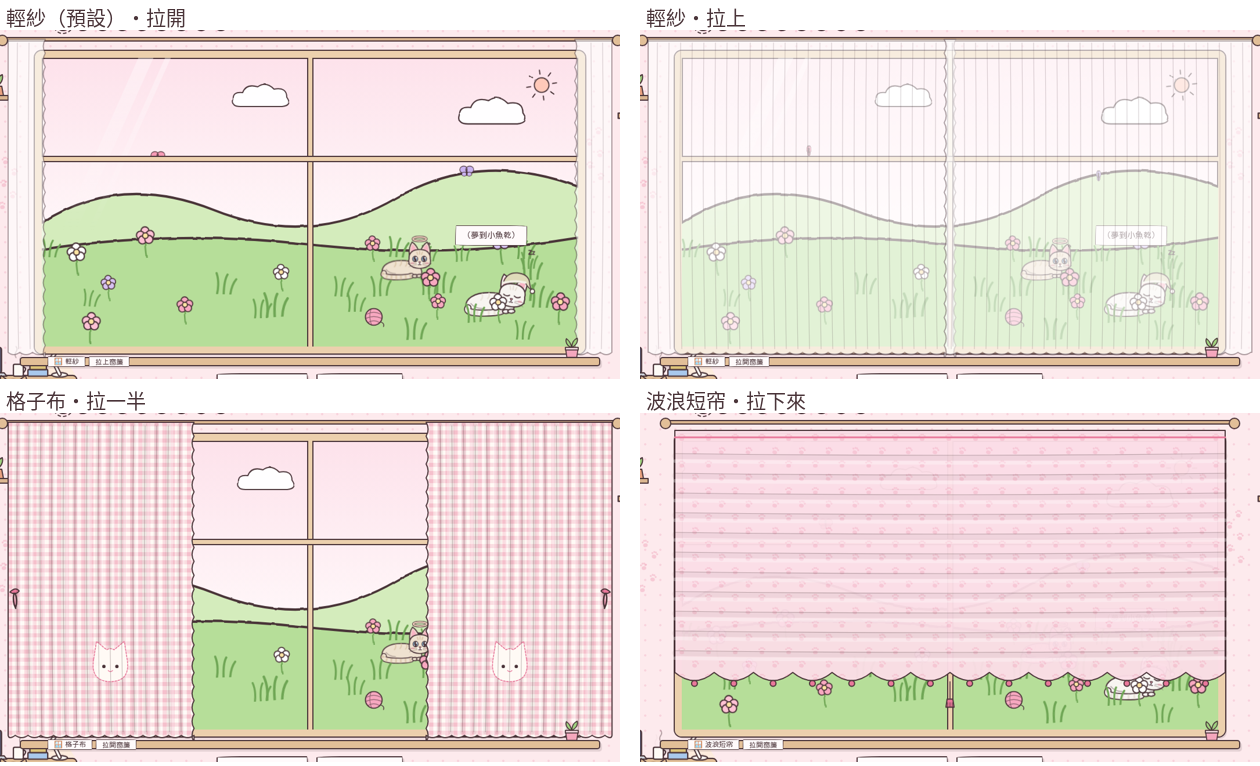
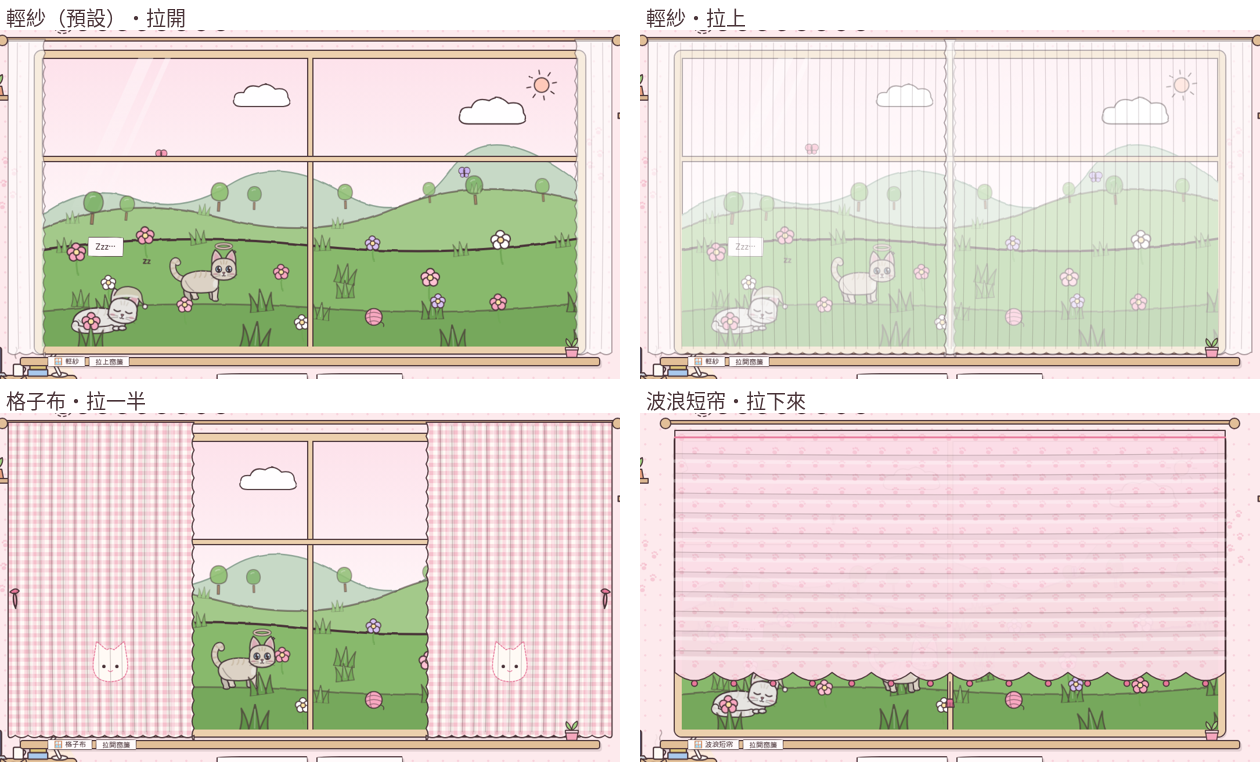
redraw the grass

diff --git a/index.html b/index.html
@@ -164,8 +164,8 @@
   }
   @keyframes gust { 0% { left: -20%; opacity: 0; } 20% { opacity: 1; } 100% { left: 110%; opacity: 0; } }
   .meadow.windy .deco { animation-duration: .8s; }
-  .meadow .scene, .meadow .deco { transition: filter 2s; }
-  .meadow.gloomy .scene, .meadow.gloomy .deco { filter: saturate(.65) brightness(.93); }
+  .meadow .scene, .meadow .deco, .meadow .trees { transition: filter 2s; }
+  .meadow.gloomy .scene, .meadow.gloomy .deco, .meadow.gloomy .trees { filter: saturate(.65) brightness(.93); }
   .meadow .fly { transition: opacity 1.5s; }
   .meadow.gloomy .fly { opacity: 0; }   /* 下雨天蝴蝶躲起來 */
   .rainbow { position: absolute; left: 22%; top: 18%; width: 46%; z-index: 1; pointer-events: none; opacity: 0; transition: opacity 2s; }
@@ -213,6 +213,8 @@
   [data-theme="night"] .mullion { background: #b39a7e; }
   @media (max-width: 1099px) { .rod { display: none; } .big-window { margin-top: 10px; } }
   .meadow .scene { position: absolute; inset: 0; width: 100%; height: 100%; }
+  .meadow .scene.far { z-index: 0; } .meadow .trees { position: absolute; inset: 0; z-index: 1; pointer-events: none; } .meadow .scene.near { z-index: 2; }
+  .meadow .tree { position: absolute; transform: translateX(-50%); transform-origin: bottom center; animation: sway 4s ease-in-out infinite alternate; }
   .meadow .label {
     position: absolute; top: 8px; left: 10px; z-index: 300; font-size: 14px;
     background: var(--card); border: 1.5px solid var(--line); padding: 2px 10px; border-radius: var(--wobble2);
@@ -238,6 +240,9 @@
   /* 貓咪 */
   .cat { position: absolute; width: 100px; transform-origin: bottom center; cursor: pointer; }
   .meadow .cat { width: calc(100px * var(--ms, 1)); }
+  /* 窗外的貓顏色柔和一點，像在遠處；下雨天再暗一點（屋內的寵物不受影響） */
+  .meadow .cat .hopper > svg { filter: saturate(.78) brightness(.93); transition: filter 2s; }
+  .meadow.gloomy .cat .hopper > svg { filter: saturate(.6) brightness(.86); }
   .cat svg { display: block; width: 100%; overflow: visible; }
   .cat .flip { transition: transform .25s; }
   .cat .tail { animation: wag 1.8s ease-in-out infinite alternate; }
@@ -592,8 +597,13 @@
     <g fill="#fff" stroke="none"><circle cx="26" cy="28" r="1.2"/><circle cx="44" cy="22" r="1"/><circle cx="78" cy="30" r="1.3"/><circle cx="22" cy="52" r="1"/><circle cx="80" cy="56" r="1"/></g>
     <circle cx="66" cy="38" r="12" fill="#fff3c4" stroke="none"/>
     <path d="M14 96 V84 Q52 76 90 84 V96Z" fill="#6f8f6a" stroke="none"/>
-    <path d="M36 88 C34 76 36 66 42 62 L41 54 L46 59 Q50 58 54 59 L59 54 L58 62 C64 66 66 76 64 88 C60 90 40 90 36 88Z" fill="#2b2839" stroke="none"/>
-    <path d="M62 86 C72 86 74 78 70 74" fill="none" stroke="#2b2839" stroke-width="3.4"/>
+    <g fill="#1d1a26" stroke="#1d1a26" stroke-linecap="round" stroke-linejoin="round">
+      <path d="M38 77 C31 71 29 60 32 51 C34 46 39 47 38.5 51.5" fill="none" stroke-width="3.6"/>
+      <path d="M40 78 L36.5 90 M44 79 L46 90 M58 79 L55.5 90 M62 78 L65 90" fill="none" stroke-width="3.6"/>
+      <ellipse cx="50" cy="76" rx="15" ry="7" stroke="none"/>
+      <circle cx="67.5" cy="69.5" r="6.6" stroke="none"/>
+      <path d="M62.6 65.6 L63.2 58.4 L67.8 63.4Z M68 63.2 L72.6 58.6 L73.6 66Z" stroke-width="1"/></g>
+    
     <text x="52" y="114" text-anchor="middle" font-size="11" fill="#4a3439" stroke="none" font-family="Huninn, sans-serif">晚安，喵</text>
     <rect class="tape" x="-2" y="2" width="26" height="10" rx="1" transform="rotate(-24 11 7)" stroke="none"/>
     <rect class="tape" x="80" y="2" width="26" height="10" rx="1" transform="rotate(24 93 7)" stroke="none"/></g></svg></div>
@@ -730,10 +740,18 @@
   </defs></svg>
   <div class="curtains" id="curtains"></div>
   <div class="meadow" id="meadow">
-    <svg class="scene" viewBox="0 0 1000 300" preserveAspectRatio="none" aria-hidden="true">
+    <!-- 草地分成好幾層：越遠越淡（帶一點藍灰），越近越深，看起來比較有距離感 -->
+    <svg class="scene far" viewBox="0 0 1000 300" preserveAspectRatio="none" aria-hidden="true">
+      <g filter="url(#w)" stroke-linejoin="round">
+        <path d="M-10 168 Q80 128 170 146 T350 132 T560 140 T760 118 T1010 134 L1010 310 L-10 310Z" fill="#c7d9c6" stroke="#8fa596" stroke-width="1.6"/>
+        <path d="M-10 180 Q150 140 330 166 T660 156 T1010 150 L1010 310 L-10 310Z" fill="#a3c98a" stroke="#4a3439" stroke-width="2" stroke-opacity=".55"/>
+      </g>
+    </svg>
+    <div class="trees" aria-hidden="true"></div>
+    <svg class="scene near" viewBox="0 0 1000 300" preserveAspectRatio="none" aria-hidden="true">
       <g filter="url(#w)" stroke="#4a3439" stroke-width="2.5" stroke-linejoin="round">
-        <path d="M-10 175 Q140 118 320 158 T660 146 T1010 136 L1010 310 L-10 310Z" fill="#d4ecbc"/>
-        <path d="M-10 200 Q240 178 500 194 T1010 186 L1010 310 L-10 310Z" fill="#b6de99"/>
+        <path d="M-10 200 Q240 180 500 195 T1010 187 L1010 310 L-10 310Z" fill="#88b96c"/>
+        <path d="M-10 264 Q260 250 520 260 T1010 254 L1010 310 L-10 310Z" fill="#76a85c" stroke-opacity=".5" stroke-width="1.8"/>
       </g>
     </svg>
     <svg class="sun" viewBox="0 0 60 60" aria-hidden="true"><g filter="url(#w)" stroke="#4a3439" stroke-width="2" stroke-linecap="round">
@@ -1532,12 +1550,57 @@ function addDeco(html, left, bottom, w) {
   d.innerHTML = html;
   meadow.appendChild(d);
 }
-const grass = `<svg viewBox="0 0 20 20"><path d="M2 20 Q4 9 1 1 M8 20 Q8 7 11 2 M14 20 Q15 11 19 6" fill="none" stroke="#6fa655" stroke-width="2" stroke-linecap="round"/></svg>`;
+// 中間山丘上的小樹：位置是 [左邊 %, 離底部 %, 大小]，越遠（越高）的越小越淡
+[[7, 41.5, .8], [14, 43, .6], [31, 46, .7], [38, 46.6, .55], [55, 47, .6], [71, 49, .5], [79, 48.4, .7], [92, 49.5, .55]].forEach(([x, y, k], i) => {
+  const t = document.createElement("div");
+  t.className = "tree";
+  t.style.cssText = `left:${x}%;bottom:${y}%;width:calc(${Math.round(30 * k)}px * var(--ms, 1));opacity:${(.55 + k * .5).toFixed(2)};animation-delay:${-i * .7}s`;
+  t.innerHTML = `<svg viewBox="0 0 30 44"><g stroke="#4a3439" stroke-width="1.6" stroke-linejoin="round" stroke-opacity=".6">
+    <path d="M13.5 30 H16.5 V43 H13.5Z" fill="#b28a68"/><path d="M15 2 C26 2 29 14 26 22 C24 30 6 30 4 22 C1 14 4 2 15 2Z" fill="${i % 3 ? "#8fbf72" : "#7fb36a"}"/>
+    <path d="M10 10 Q13 7 17 8" fill="none" stroke="#fff" stroke-opacity=".4"/></g></svg>`;
+  meadow.querySelector(".trees").appendChild(t);
+});
+// 三片尖尖葉子的草叢（實心），fill 是顏色、tilt 讓每叢草歪的方向不太一樣
+const grass = (fill, tilt = 0, line = .7) => `<svg viewBox="0 0 30 24" style="transform:rotate(${tilt}deg)"><path d="M3 24 Q6 13 4 4 Q10 13 11.5 24Z M10 24 Q13.5 9 15 0 Q18 10 20 24Z M18.5 24 Q22 13 26.5 5 Q25 15 27 24Z"
+  fill="${fill}" stroke="#4a3439" stroke-width="1.3" stroke-linejoin="round" stroke-opacity="${line}"/>
+  <path d="M15 4 Q15.5 12 15.5 20" fill="none" stroke="#fff" stroke-opacity=".25" stroke-width="1.2"/></svg>`;
+// 算出草地分界線在某個水平位置的高度（照背景 SVG 裡的曲線，M → Q → T… 的寫法）
+function curveAt(d) {
+  const nums = d.match(/-?[\d.]+/g).map(Number), pts = [];
+  let p0 = [nums[0], nums[1]], c = [nums[2], nums[3]], p1 = [nums[4], nums[5]];
+  const seg = (a, k, b) => { for (let t = 0; t <= 1; t += .02) pts.push([(1 - t) ** 2 * a[0] + 2 * (1 - t) * t * k[0] + t * t * b[0], (1 - t) ** 2 * a[1] + 2 * (1 - t) * t * k[1] + t * t * b[1]]); };
+  seg(p0, c, p1);
+  for (let i = 6; i + 1 < nums.length; i += 2) {
+    const next = [nums[i], nums[i + 1]], k = [2 * p1[0] - c[0], 2 * p1[1] - c[1]];
+    seg(p1, k, next); c = k; p1 = next;
+  }
+  // 回傳：給 0~100 的水平位置，得到離底部的百分比
+  return xPct => {
+    const x = xPct * 10, i = pts.findIndex(q => q[0] >= x), a = pts[Math.max(0, i - 1)], b = pts[Math.max(0, i)];
+    const y = a[1] + (b[1] - a[1]) * ((x - a[0]) / ((b[0] - a[0]) || 1));
+    return (300 - y) / 3;
+  };
+}
 const flower = c => `<svg viewBox="0 0 24 40"><g filter="url(#w)" stroke="${INK}" stroke-width="1.5">
   <path d="M12 40 Q11 26 12 16" stroke="#6fa655" stroke-width="2" fill="none"/>
   <circle cx="12" cy="6" r="5" fill="${c}"/><circle cx="6" cy="11" r="5" fill="${c}"/><circle cx="18" cy="11" r="5" fill="${c}"/>
   <circle cx="8" cy="17" r="5" fill="${c}"/><circle cx="16" cy="17" r="5" fill="${c}"/><circle cx="12" cy="12" r="3.5" fill="#ffe3a3"/></g></svg>`;
-for (let i = 0; i < 22; i++) addDeco(grass, rand() * 97, rand() * 95, 16 + rand() * 10);
+// 一排一排的草叢：越遠越小、越淡，越近越大、越深
+const midEdge = curveAt("M-10 180 Q150 140 330 166 T660 156 T1010 150");
+const nearEdge = curveAt("M-10 200 Q240 180 500 195 T1010 187");
+const frontEdge = curveAt("M-10 264 Q260 250 520 260 T1010 254");
+const farTufts = meadow.querySelector(".trees");
+for (let x = 4 + rand() * 8; x < 100; x += 16 + rand() * 12) {   // 中間山丘的邊緣：小小的、淡淡的（在近處草地的後面）
+  const t = document.createElement("div");
+  t.className = "tree";
+  t.style.cssText = `left:${x}%;bottom:${midEdge(x) - 1.6}%;width:calc(${Math.round(12 + rand() * 5)}px * var(--ms, 1));animation-delay:${-rand() * 4}s`;
+  t.innerHTML = grass("#9cc684", rand() * 16 - 8, .3);
+  farTufts.appendChild(t);
+}
+for (let x = 2 + rand() * 10; x < 100; x += 15 + rand() * 12) addDeco(grass("#80b465", rand() * 16 - 8, .5), x, (nearEdge(x) - 2.4) * 2.9, 17 + rand() * 6);    // 近處草地的邊緣
+for (let i = 0; i < 4; i++) addDeco(grass("#76ab5b", rand() * 16 - 8, .6), rand() * 97, (5 + rand() * 22) * 2.9, 20 + rand() * 7);   // 散在草地上
+for (let x = 6 + rand() * 10; x < 100; x += 20 + rand() * 14) addDeco(grass("#6a9f51", rand() * 14 - 7), x, (frontEdge(x) - 3.2) * 2.9, 24 + rand() * 6);   // 最前面那條草地的邊緣
+for (let x = 3 + rand() * 12; x < 100; x += 24 + rand() * 16) addDeco(grass("#5f9448", rand() * 12 - 6), x, -6, 30 + rand() * 8);   // 最底下、最靠近你的一排
 const flowerColors = ["#f7a8c0", "#ffffff", "#d7c2f2", "#f7a8c0", "#ffc2d4"];
 for (let i = 0; i < 12; i++) addDeco(flower(flowerColors[i % 5]), rand() * 95, rand() * 90, 16 + rand() * 6);
 [0, -30, -58].forEach((delay, i) => {
@@ -2230,6 +2293,8 @@ function sidePanel(side, pw, ph, style) {
     ${extra}<path d="${folds}" fill="none" stroke-width="1.2" opacity="${style === "sheer" ? .22 : .3}"/>${bow}</g></svg>`;
 }
 
+// 窗簾拉開時剩下的寬度：大螢幕 64px，窄螢幕收得窄一點，才不會擋住太多窗戶
+const openPanelW = W => innerWidth >= 1100 ? 64 : Math.max(18, Math.round(W * .06));
 function curtainHTML() {
   const win = document.querySelector(".big-window"), W = win.offsetWidth, H = win.offsetHeight;
   const out = innerWidth >= 1100 ? 46 : 0;   // 寬螢幕時簾子掛在窗框外面一點
@@ -2253,7 +2318,7 @@ function curtainHTML() {
       <path d="M0 12 H${W}" fill="none" class="trim-line" stroke-width="3"/>
       <path d="${folds}" fill="none" stroke-width="1.2" opacity=".3"/>${poms}${cord}</g></svg>`;
   }
-  const pw = lerp(64, W / 2 + out + 10, curtainShut), ph = H + 18;
+  const pw = lerp(openPanelW(W), W / 2 + out + 10, curtainShut), ph = H + 18;
   return sidePanel("l", pw, ph, curtainStyle) + sidePanel("r", pw, ph, curtainStyle);
 }
 function renderCurtains() {
@@ -2292,7 +2357,7 @@ function bindCurtainDrag(svg) {
     const win = document.querySelector(".big-window"), W = win.offsetWidth, H = win.offsetHeight;
     const out = innerWidth >= 1100 ? 46 : 0, x0 = e.clientX, y0 = e.clientY, s0 = curtainShut;
     const side = svg.classList.contains("r") ? -1 : 1, isVal = svg.classList.contains("valance");
-    const range = isVal ? H - 66 : W / 2 + out + 10 - 64;
+    const range = isVal ? H - 66 : W / 2 + out + 10 - openPanelW(W);
     let moved = false;
     const move = ev => {
       const d = isVal ? ev.clientY - y0 : (ev.clientX - x0) * side;
